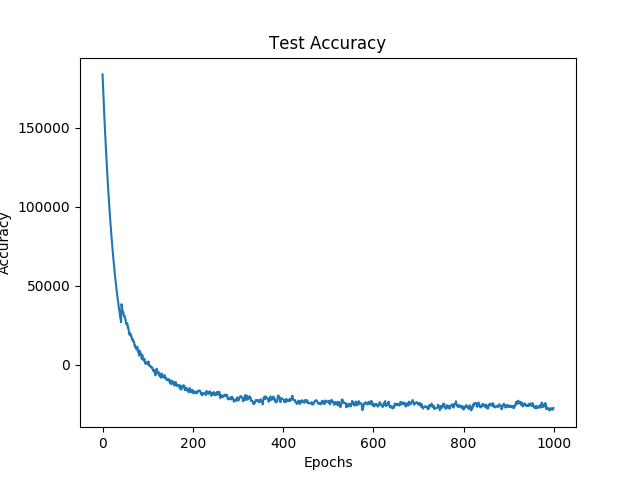
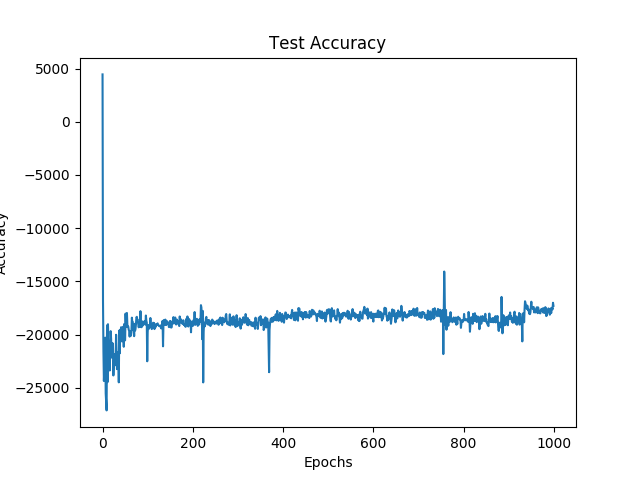
last mod

diff --git a/project_1/part_b/q1/main.py b/project_1/part_b/q1/main.py
@@ -12,10 +12,10 @@ from sklearn.model_selection import KFold
 np.random.seed(10)
 
 epochs = 1000
-batch_size = 256
+batch_size = 32
 no_hidden1 = 30 #num of neurons in hidden layer 1
 learning_rate = 0.0001
-noExps = 2
+noExps = 1
 
 floatX = theano.config.floatX
 
@@ -123,7 +123,7 @@ b_o = theano.shared(np.random.randn()*.01, floatX)
 w_h1 = theano.shared(np.random.randn(no_features, no_hidden1)*.01, floatX )
 b_h1 = theano.shared(np.random.randn(no_hidden1)*0.01, floatX)
 
-best_learning_rate = 0.00001
+best_learning_rate = 0.0001
 alpha.set_value(best_learning_rate)
 print(alpha.get_value())
 
@@ -141,10 +141,10 @@ for iter in range(epochs):
 #Plots
 plt.figure()
 plt.plot(range(epochs), train_cost, label='train error')
-plt.plot(range(epochs), test_cost, label = 'test error')
+# plt.plot(range(epochs), test_cost, label = 'test error')
 plt.xlabel('Epochs')
 plt.ylabel('Mean Squared Error')
-plt.title('Training and Test Errors at Alpha = %.5f'%learning_rate)
+plt.title('Training Errors at Alpha = %.4f'%learning_rate)
 plt.legend()
 plt.savefig('p_1b_sample_mse.png')
 plt.show()
